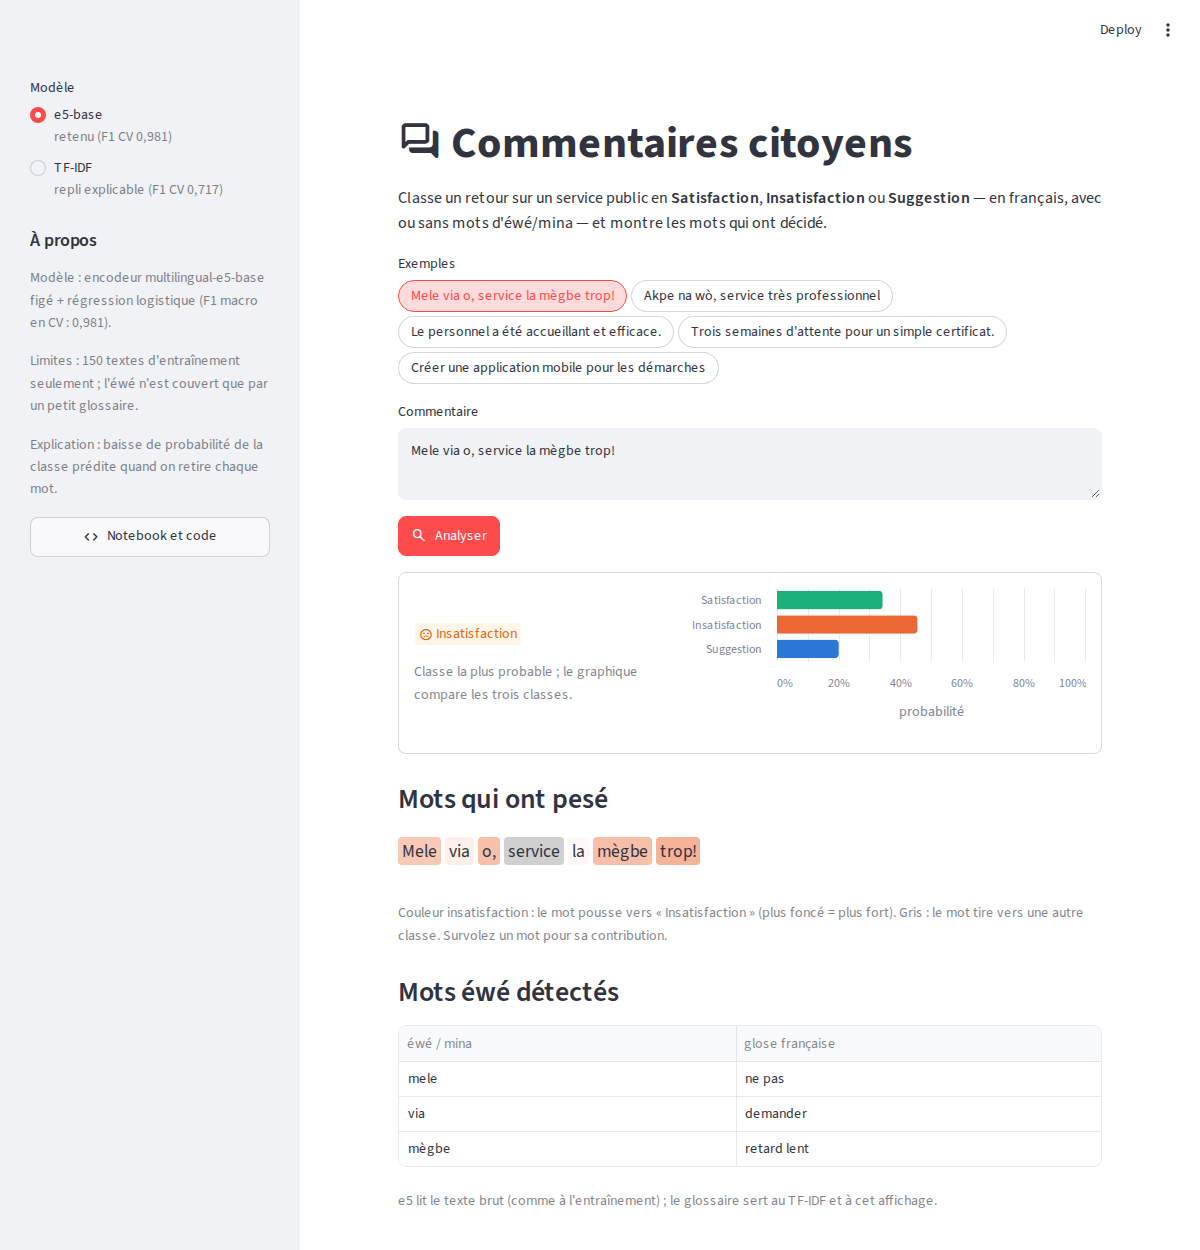
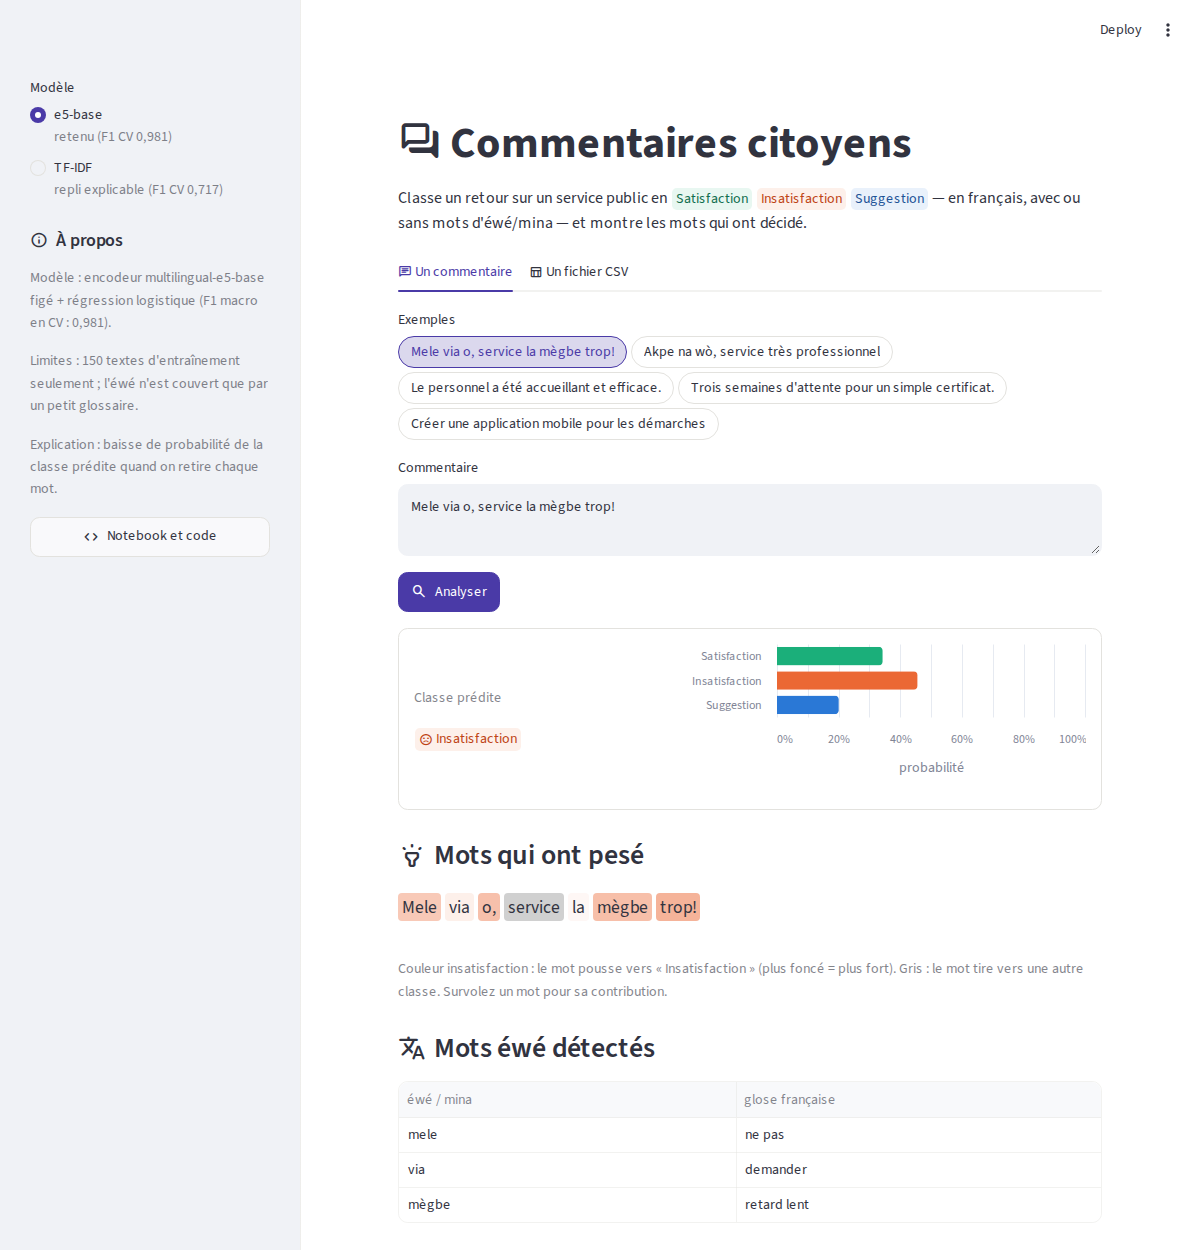
App : onglet de classement CSV avec export, thème aux couleurs des classes, icônes

diff --git a/app.py b/app.py
@@ -70,50 +70,79 @@ def highlight(contributions, color):
 
 
 st.set_page_config(page_title="Commentaires citoyens", page_icon=":material/forum:")
-st.title(":material/forum: Commentaires citoyens")
-st.markdown("Classe un retour sur un service public en **Satisfaction**, **Insatisfaction** ou **Suggestion** "
-            "— en français, avec ou sans mots d'éwé/mina — et montre les mots qui ont décidé.")
+st.title("Commentaires citoyens", icon=":material/forum:")
+st.markdown("Classe un retour sur un service public en :green-badge[Satisfaction] :orange-badge[Insatisfaction] "
+            ":blue-badge[Suggestion] — en français, avec ou sans mots d'éwé/mina — et montre les mots qui ont décidé.")
 
 with st.sidebar:
     model_name = st.radio("Modèle", ["e5-base", "TF-IDF"],
                           captions=["retenu (F1 CV 0,981)", "repli explicable (F1 CV 0,717)"])
-    st.subheader("À propos")
+    st.subheader("À propos", icon=":material/info:")
     st.caption("Modèle : encodeur multilingual-e5-base figé + régression logistique (F1 macro en CV : 0,981).")
     st.caption("Limites : 150 textes d'entraînement seulement ; l'éwé n'est couvert que par un petit glossaire.")
     st.caption("Explication : baisse de probabilité de la classe prédite quand on retire chaque mot.")
     st.link_button("Notebook et code", REPO, icon=":material/code:", width="stretch")
 
-st.pills("Exemples", EXAMPLES, key="example",
-         on_change=lambda: st.session_state.update(text=st.session_state.example or st.session_state.text))
-text = st.text_area("Commentaire", key="text", placeholder="Écrivez un commentaire…", height=100)
-st.button("Analyser", type="primary", icon=":material/search:")
+single_tab, batch_tab = st.tabs(
+    [":material/chat: Un commentaire", ":material/table_chart: Un fichier CSV"])
 
-if text.strip():
-    with st.spinner("Analyse… (le premier appel charge le modèle, ~20 s)"):
-        label, probs, contributions = analyse(text, model_name)
+with single_tab:
+    st.pills("Exemples", EXAMPLES, key="example",
+             on_change=lambda: st.session_state.update(text=st.session_state.example or st.session_state.text))
+    text = st.text_area("Commentaire", key="text", placeholder="Écrivez un commentaire…", height=100)
+    st.button("Analyser", type="primary", icon=":material/search:")
 
-    with st.container(border=True):
-        color, icon = BADGES[label]
-        verdict, chart = st.columns([2, 3], vertical_alignment="center")
-        verdict.badge(label, icon=icon, color=color)
-        # Pas de « % de confiance » : les probabilités de la régression logistique sur e5 ne sont pas calibrées
-        # (médiane 0,56 même sur les textes d'entraînement) ; seul leur classement est fiable.
-        verdict.caption("Classe la plus probable ; le graphique compare les trois classes.")
-        df = pd.DataFrame({"classe": classes(model_name), "probabilité": probs})
-        chart.altair_chart(alt.Chart(df).mark_bar(cornerRadiusEnd=4).encode(
-            x=alt.X("probabilité", scale=alt.Scale(domain=[0, 1]), axis=alt.Axis(format="%")),
-            y=alt.Y("classe", title=None, sort=list(COLORS), axis=alt.Axis(labelOverlap=False)),
-            color=alt.Color("classe", scale=alt.Scale(domain=list(COLORS), range=list(COLORS.values())), legend=None),
-            tooltip=["classe", alt.Tooltip("probabilité", format=".1%")]).properties(height=150))
+    if text.strip():
+        with st.spinner("Analyse… (le premier appel charge le modèle, ~20 s)"):
+            label, probs, contributions = analyse(text, model_name)
 
-    st.subheader("Mots qui ont pesé")
-    st.html(highlight(contributions, COLORS[label]))
-    st.caption(f"Couleur {label.lower()} : le mot pousse vers « {label} » (plus foncé = plus fort). "
-               "Gris : le mot tire vers une autre classe. Survolez un mot pour sa contribution.")
+        with st.container(border=True):
+            color, icon = BADGES[label]
+            verdict, chart = st.columns([2, 3], vertical_alignment="center")
+            verdict.caption("Classe prédite")
+            verdict.badge(label, icon=icon, color=color)
+            # Pas de « % de confiance » : les probabilités de la régression logistique sur e5 ne sont pas calibrées
+            # (médiane 0,56 même sur les textes d'entraînement) ; seul leur classement est fiable.
+            df = pd.DataFrame({"classe": classes(model_name), "probabilité": probs})
+            chart.altair_chart(alt.Chart(df).mark_bar(cornerRadiusEnd=4).encode(
+                x=alt.X("probabilité", scale=alt.Scale(domain=[0, 1]), axis=alt.Axis(format="%")),
+                y=alt.Y("classe", title=None, sort=list(COLORS), axis=alt.Axis(labelOverlap=False)),
+                color=alt.Color("classe", scale=alt.Scale(domain=list(COLORS), range=list(COLORS.values())), legend=None),
+                tooltip=["classe", alt.Tooltip("probabilité", format=".1%")]).properties(height=150))
 
-    if glosses := ewe_words(text):
-        st.subheader("Mots éwé détectés")
-        st.dataframe(pd.DataFrame({"éwé / mina": list(glosses), "glose française": list(glosses.values())}),
-                     hide_index=True)
-        if model_name == "e5-base":
-            st.caption("e5 lit le texte brut (comme à l'entraînement) ; le glossaire sert au TF-IDF et à cet affichage.")
+        st.subheader("Mots qui ont pesé", icon=":material/highlight:")
+        st.html(highlight(contributions, COLORS[label]))
+        st.caption(f"Couleur {label.lower()} : le mot pousse vers « {label} » (plus foncé = plus fort). "
+                   "Gris : le mot tire vers une autre classe. Survolez un mot pour sa contribution.")
+
+        if glosses := ewe_words(text):
+            st.subheader("Mots éwé détectés", icon=":material/translate:")
+            st.dataframe(pd.DataFrame({"éwé / mina": list(glosses), "glose française": list(glosses.values())}),
+                         hide_index=True)
+            if model_name == "e5-base":
+                st.caption("e5 lit le texte brut (comme à l'entraînement) ; le glossaire sert au TF-IDF et à cet affichage.")
+
+with batch_tab:
+    # Cas d'usage réel d'une administration : classer d'un coup un export de retours citoyens.
+    uploaded = st.file_uploader("Fichier CSV (une colonne de commentaires)", type="csv")
+    if uploaded is not None:
+        comments = pd.read_csv(uploaded)
+        text_columns = list(comments.select_dtypes("object").columns)
+        if not text_columns:
+            st.error("Aucune colonne de texte dans ce fichier.", icon=":material/error:")
+        else:
+            column = st.selectbox("Colonne à classer", text_columns,
+                                  index=text_columns.index("texte") if "texte" in text_columns else 0)
+            texts = comments[column].fillna("").astype(str)
+            with st.spinner(f"Classement de {len(texts)} commentaires…"):
+                batch_probs = predict_proba(list(texts), model_name)
+            labels = classes(model_name)
+            # Classe prédite juste après le texte, pour qu'elle reste visible sans défilement horizontal
+            comments.insert(comments.columns.get_loc(column) + 1, "classe prédite",
+                            [labels[i] for i in batch_probs.argmax(axis=1)])
+            counts = comments["classe prédite"].value_counts().reindex(list(COLORS), fill_value=0)
+            for metric_column, (name, count) in zip(st.columns(3, border=True), counts.items()):
+                metric_column.metric(name, f"{count} · {count / len(comments):.0%}")
+            st.dataframe(comments, hide_index=True)
+            st.download_button("Télécharger le CSV classé", comments.to_csv(index=False).encode("utf-8"),
+                               "commentaires_classes.csv", "text/csv", icon=":material/download:", type="primary")

diff --git a/README.md b/README.md
@@ -9,12 +9,13 @@ Quatre modèles sont comparés : TF-IDF (mots + caractères) avec régression lo
 **Résultats.** TF-IDF + régression logistique : F1 macro 0,717 ± 0,098 en CV ; e5-base figé + régression logistique : 0,981 ± 0,025 en CV et 0,967 sur le test (1 erreur sur 30), retenu. SetFit fait 0,970 pour 37 s de GPU, sans gain. L'écart creux/dense est significatif sur les 150 prédictions hors-pli (McNemar, p ≈ 7·10⁻¹²).
 Les erreurs viennent de la négation à sens positif (« je n'ai attendu que 10 minutes »), d'une plainte sans mot négatif et du temps du verbe (« facilite » contre « faciliterait »).
 **Déploiement.** e5-base demande 1,56 Go de RAM (TF-IDF : 0,2 Go) : l'application est déployée sur Streamlit Community Cloud (`deploy/streamlit/`, torch CPU), avec TF-IDF en repli.
-**Bonus.** CamemBERT fine-tuné : 0,983 ± 0,037 en CV (5 plis appariés), comme e5 figé (0,983 ± 0,023), pour bien plus de calcul. Sur 15 textes mixtes français/éwé relus par un locuteur, le glossaire fait passer e5 de 12 à 13/15 et le TF-IDF de 8 à 11/15. Application Streamlit : classe, probabilités, mots qui ont pesé (occlusion), gloses éwé détectées.
+**Bonus.** CamemBERT fine-tuné : 0,983 ± 0,037 en CV (5 plis appariés), comme e5 figé (0,983 ± 0,023), pour bien plus de calcul. Sur 15 textes mixtes français/éwé relus par un locuteur, le glossaire fait passer e5 de 12 à 13/15 et le TF-IDF de 8 à 11/15. Application Streamlit : classe, probabilités, mots qui ont pesé (occlusion), gloses éwé détectées, et classement d'un fichier CSV entier avec export.
 **Limites.** Corpus de 150 textes très « gabarit » (score probablement optimiste), 30 textes de test, 3 textes éwé seulement et glossaire mot à mot sans désambiguïsation ; pistes détaillées dans la section 3 du notebook.
 
 ![Comparaison des modèles](figures/comparaison_modeles.png)
 ![Matrices de confusion](figures/matrices_confusion.png)
 ![Application](figures/app_demo.png)
+![Classement d'un fichier CSV](figures/app_batch.png)
 
 ## Reproduire
 
